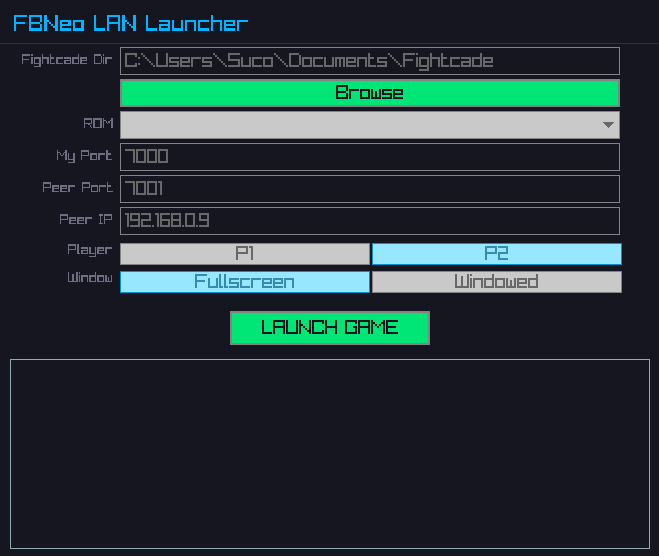
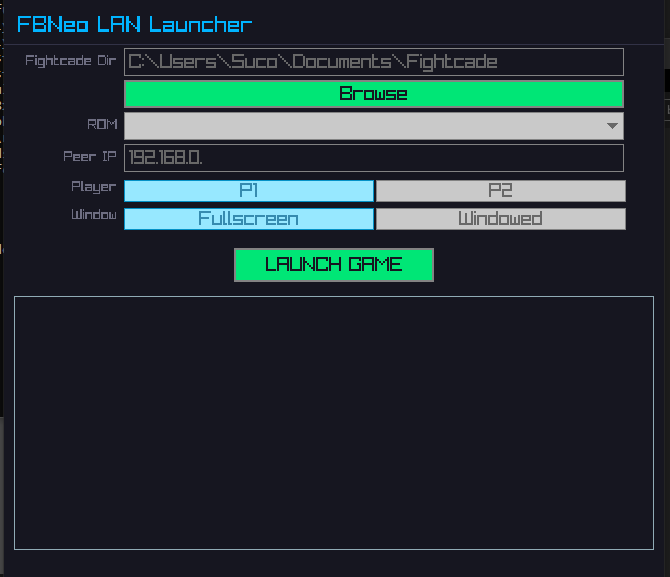
skill issue

diff --git a/src/process.c b/src/process.c
@@ -22,6 +22,7 @@ void build_cmd(App *app, int side, int wink, char *out, int out_sz)
 #ifdef _WIN32
     snprintf(out, out_sz, "\"%s\" quark:direct,%s,%s,%s,%s,%d,0 %s",
              ep, rom, port, ip, pport, side, win);
+    TraceLog(LOG_INFO,out);
 #else
     snprintf(out, out_sz, "%s \"%s\" quark:direct,%s,%s,%s,%s,%d,0 %s",
              LAUNCHER, ep, rom, port, ip, pport, side, win);